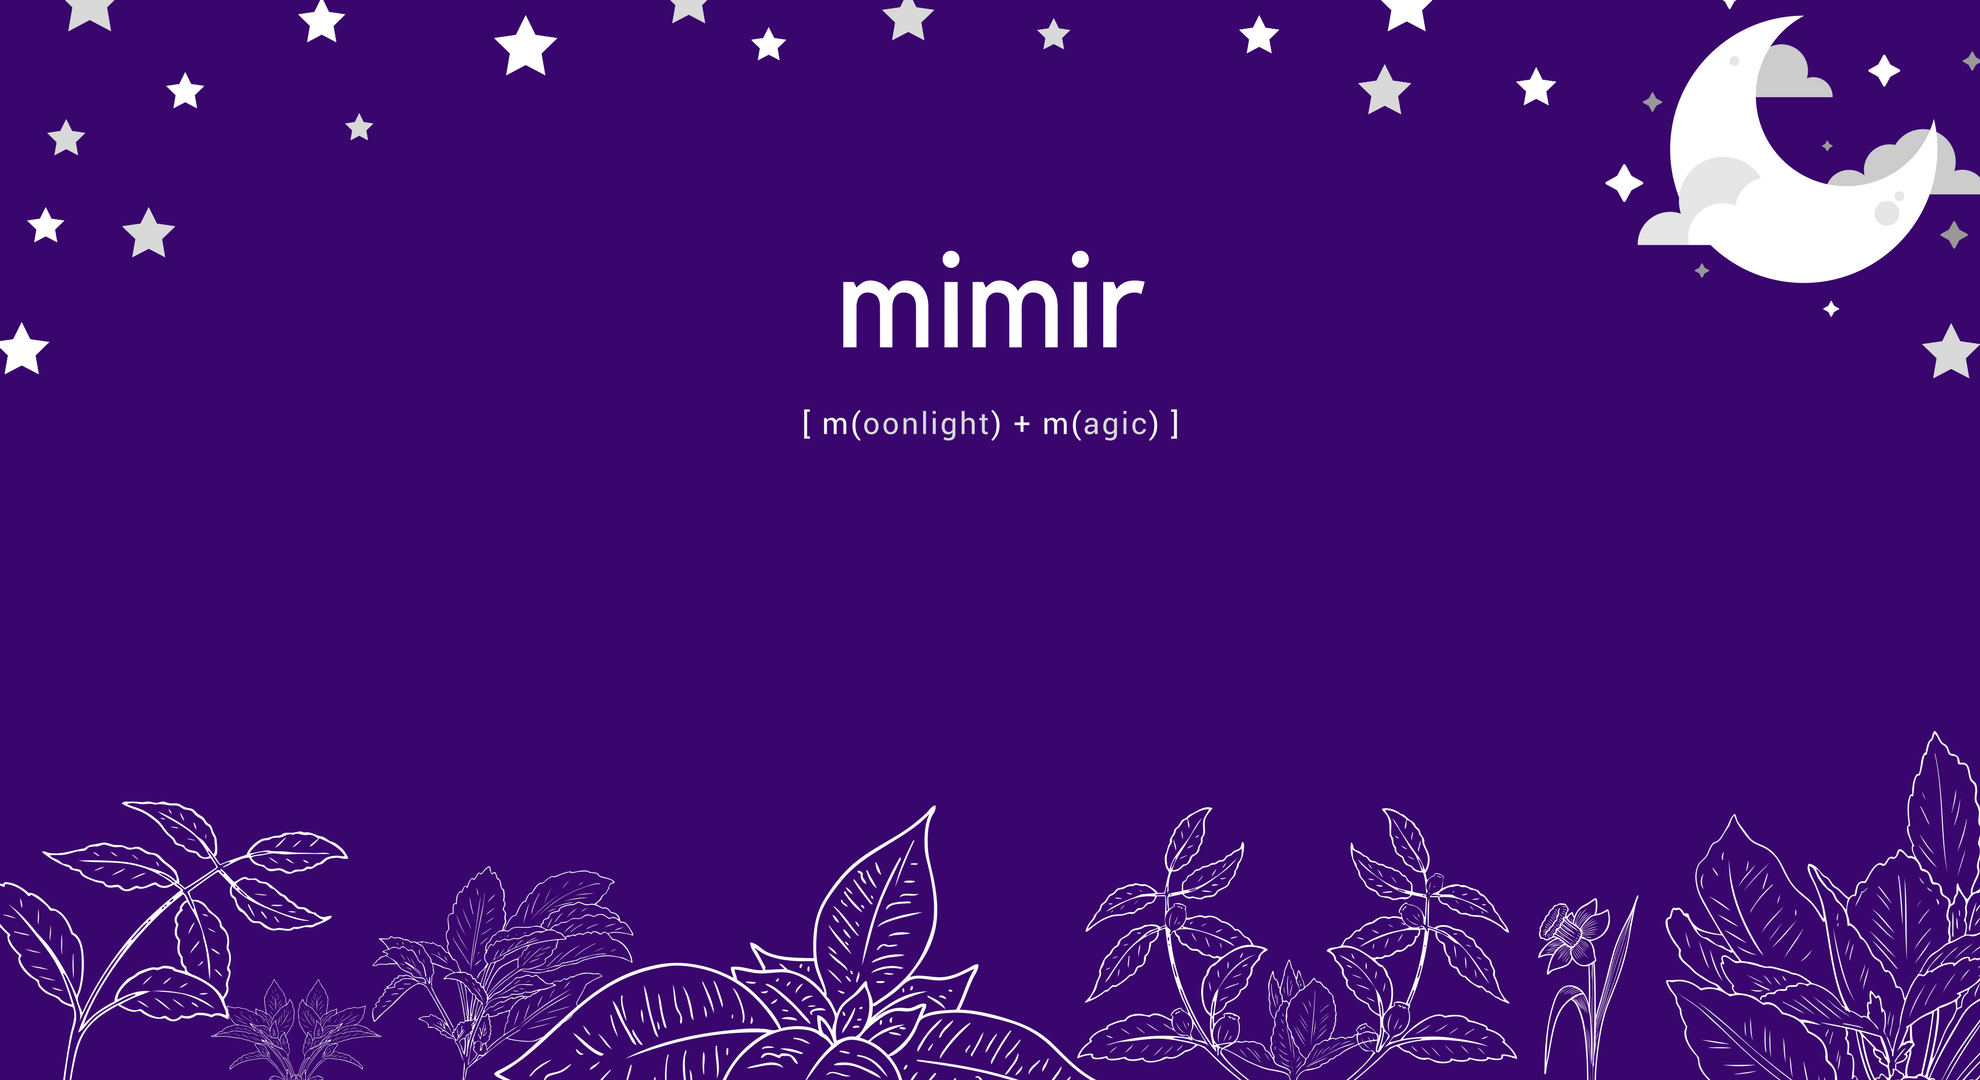
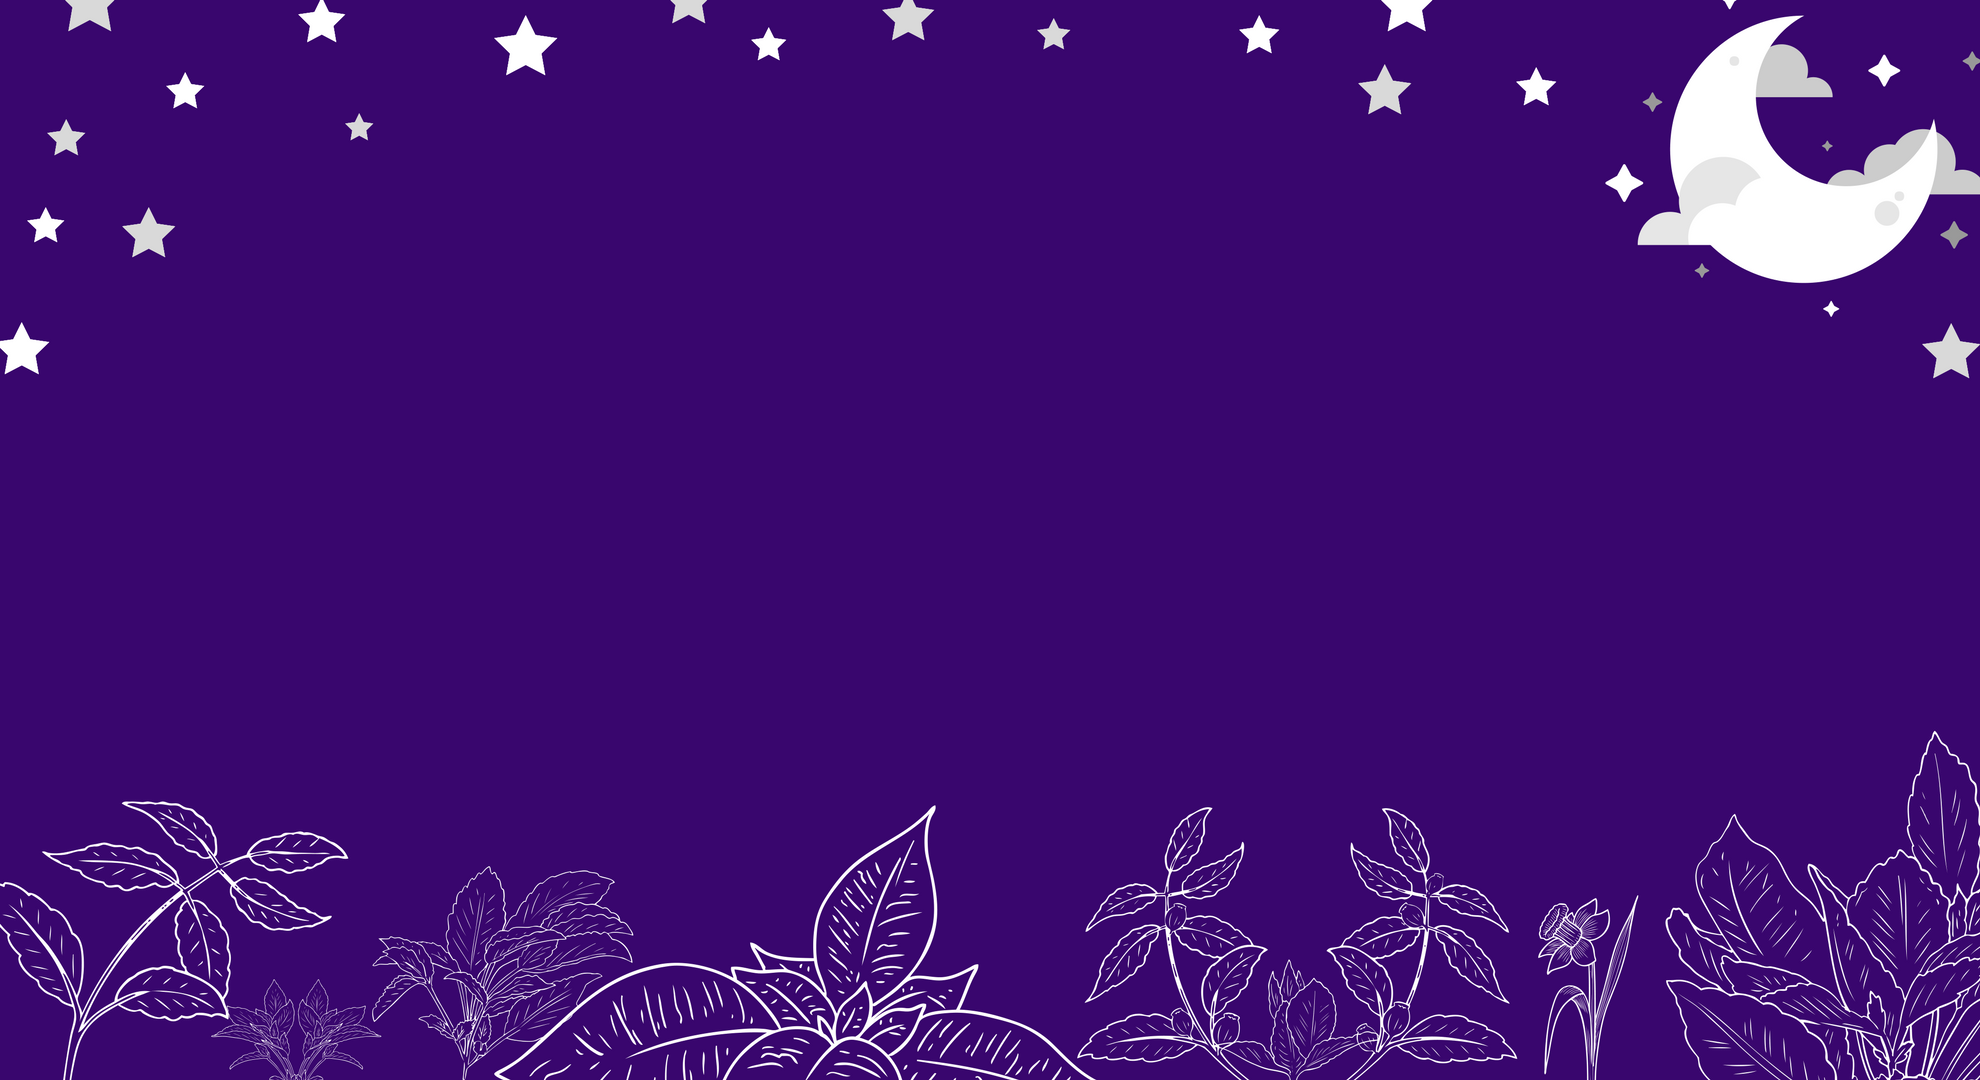
added jquery

Changed region(s): [[0.4005, 0.2139, 0.5854, 0.3361], [0.4005, 0.3667, 0.5854, 0.4278]]

diff --git a/assets/css/styles.css b/assets/css/styles.css
@@ -70,6 +70,12 @@ section h3.title {
 	text-align: center;
 }
 
+section h1.title {
+	color: white;
+	font-size: 4em;
+	text-align: center;
+}
+
 section p {
 	max-width: 775px;
 	line-height: 2;
@@ -78,31 +84,25 @@ section p {
 	text-align: center;
 }
 
+@media (max-width: 800px) {
+	section {
+		padding: 50px 20px;
+	}
+}
+
 /**
  * Header
  */
 
 header {
-	position: absolute;
+	position: fixed;
+	background-color: #3a0f6d;
 	width: 100%;
-	display: flex;
+	display: none;
 	justify-content: space-between;
 	align-items: center;
-	padding: 20px 50px 0;
-	animation: 1s fadein 0.5s forwards;
-	opacity: 0;
+	padding: 20px 50px 20px;
 }
-
-@keyframes fadein {
-	/*	opacity should be one when animation is finished*/
-	100% {
-		opacity: 1;
-	}
-}
-
-/*header h2 {
-	font-family: "Quicksand", sans-serif;
-}*/
 
 header nav {
 	display: flex;
@@ -111,6 +111,17 @@ header nav {
 
 header nav li {
 	margin: 0 15px;
+}
+
+@media (max-width: 800px) {
+	header {
+		padding: 20px 50px;
+		flex-direction: column;
+	}
+
+	header h2 {
+		margin-bottom: 15px;
+	}
 }
 
 /**
@@ -143,16 +154,38 @@ header nav li {
 	margin-bottom: 20px;
 }
 
+.hero .slogan {
+	margin: 0;
+	font-size: 0.9em;
+}
+
 .hero a.btn {
 	padding: 20px 46px;
 }
 
 .hero-content-area {
 	opacity: 0;
-	margin-top: 100px;
 	-webkit-animation: 1s slidefade 1s forwards;
 	-o-animation: 1s slidefade 1s forwards;
 	animation: 1s slidefade 1s forwards;
+}
+
+@media (max-width: 800px) {
+	.hero {
+		min-height: 600px;
+	}
+
+	.hero h1 {
+		font-size: 48px;
+	}
+
+	.hero h3 {
+		font-size: 24px;
+	}
+
+	.hero a.btn {
+		padding: 15px 40px;
+	}
 }
 
 @-webkit-keyframes slidefade {
@@ -196,6 +229,20 @@ header nav li {
 	flex-basis: 70%;
 }
 
+@media (max-width: 1100px) {
+	.potions .grid li.small,
+	.potions .grid li.large {
+		flex-basis: 50%;
+	}
+}
+
+@media (max-width: 800px) {
+	.potions .grid li.small,
+	.potions .grid li.large {
+		flex-basis: 100%;
+	}
+}
+
 /**
  * Packages
  */
@@ -213,6 +260,13 @@ header nav li {
 .packages .grid li h4 {
 	font-size: 30px;
 	margin: 25px 0;
+}
+
+@media (max-width: 800px) {
+	.packages .grid li {
+		flex-basis: 100%;
+		padding: 20px;
+	}
 }
 
 /**
@@ -233,6 +287,17 @@ header nav li {
 
 .testimonials hr {
 	background-color: white;
+}
+
+@media (max-width: 800px) {
+	.testimonnials .quota {
+		font-size: 18px;
+		margin: 15px;
+	}
+
+	.testimonials .author {
+		font-size: 14px;
+	}
 }
 
 /**
@@ -262,6 +327,13 @@ header nav li {
 	flex: 1;
 }
 
+@media (max-width: 1000px) {
+	.contact form input {
+		flex-basis: 100%;
+		margin: 0 0 20px 0;
+	}
+}
+
 /**
  * Footer
  */
@@ -289,4 +361,19 @@ footer p {
 	font-size: 14px;
 	opacity: 0.6;
 	align-self: center;
+}
+
+@media (max-width: 1100px) {
+	footer {
+		flex-direction: column;
+	}
+
+	footer p {
+		text-align: center;
+		margin-bottom: 20px;
+	}
+
+	footer ul li {
+		margin: 0 8px;
+	}
 }

diff --git a/index.html b/index.html
@@ -8,17 +8,19 @@
 	</head>
 	<body>
 		<header>
-<!-- 			<h2><a href="#">Mimir's Bazaar</a></h2>
+			<a href="#">Mimir's Bazaar</a>
 			<nav>
 				<li><a href="#">Potions</a></li>
 				<li><a href="#">About</a></li>
 				<li><a href="#">Contact</a></li>
-			</nav> -->
+			</nav>
 		</header>
 
 		<section class="hero">
 			<div class="background-image" style="background-image: url(assets/img/mimir_landing.png);"></div>
 			<div class="hero-content-area">
+				<h1 class="title">mimir</h1>
+				<p class="slogan">[ m(oonlight) + m(agic) ]</p>
 				<p>experience some of the world's most powerful sleeping potions.</p>
 			</div>
 		</section>
@@ -97,10 +99,17 @@
 				<li><a href=""><i class="fa fa-snapchat-square fa-2x"></i></a></li>
 			</ul>
 		</footer>
+		<script
+		  src="https://code.jquery.com/jquery-3.2.1.min.js"
+		  integrity="sha256-hwg4gsxgFZhOsEEamdOYGBf13FyQuiTwlAQgxVSNgt4="
+		  crossorigin="anonymous">
+		 </script>
+		 <script src="assets/js/script.js"></script>
 	</body>
 </html>
 
-
+<!-- mimir
+[ m(oonlight) + m(agic) ] -->
 
 
 

diff --git a/assets/js/script.js b/assets/js/script.js
@@ -1,0 +1,26 @@
+$(() => {
+	$(window).scroll(function() {
+		// set distance user needs to scroll before we fadeIn navbar
+		if ($(this).scrollTop() > 300) {
+			$("header").css("display", "flex");
+			$("header").fadeIn("slow");
+		} else {
+			$("header").fadeOut(1000);
+		}
+	});
+
+	$(window).scroll(function() {
+		if ($(this).scrollTop() > 301) {
+			$("header").fadeIn("slow");
+			clearTimeout($.data(this, "scrollCheck"));
+
+			$.data(
+				this,
+				"scrollCheck",
+				setTimeout(function() {
+					$("header").fadeOut(1000);
+				}, 1000)
+			);
+		}
+	});
+});
